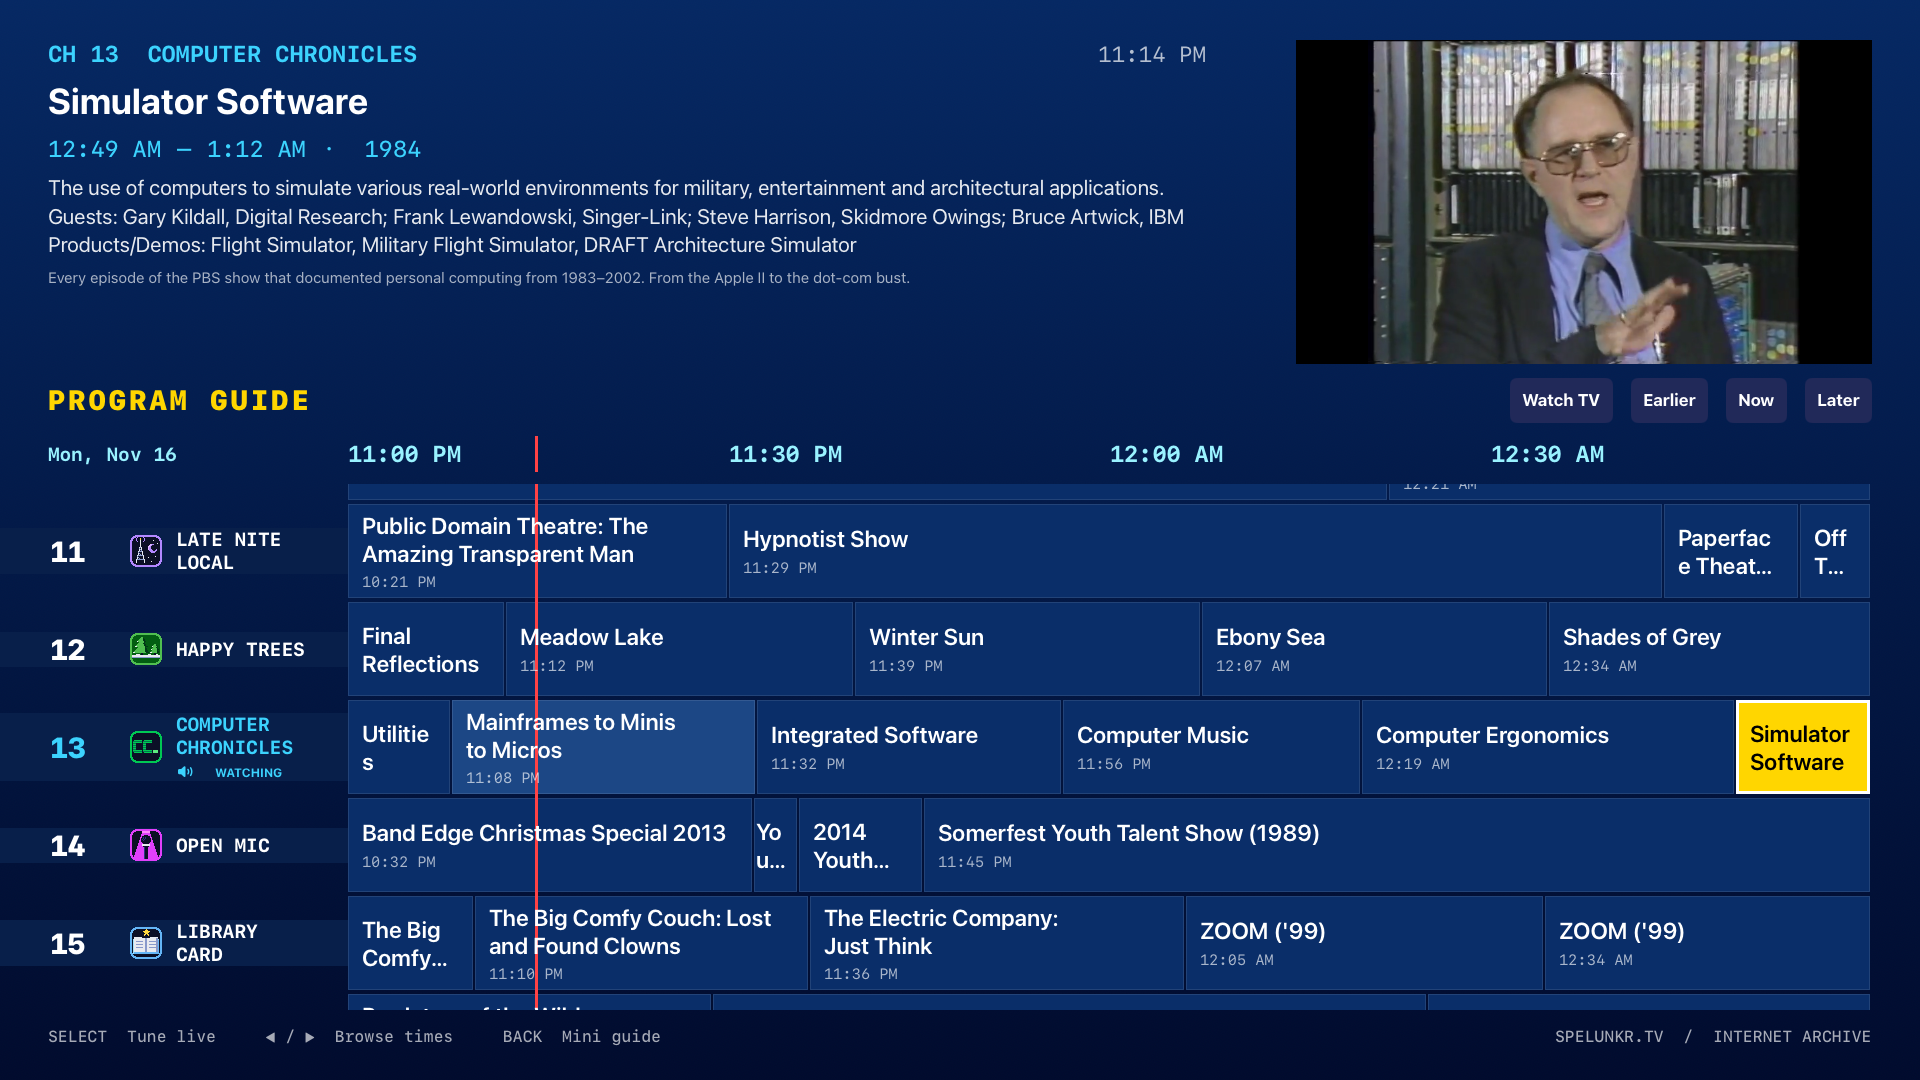
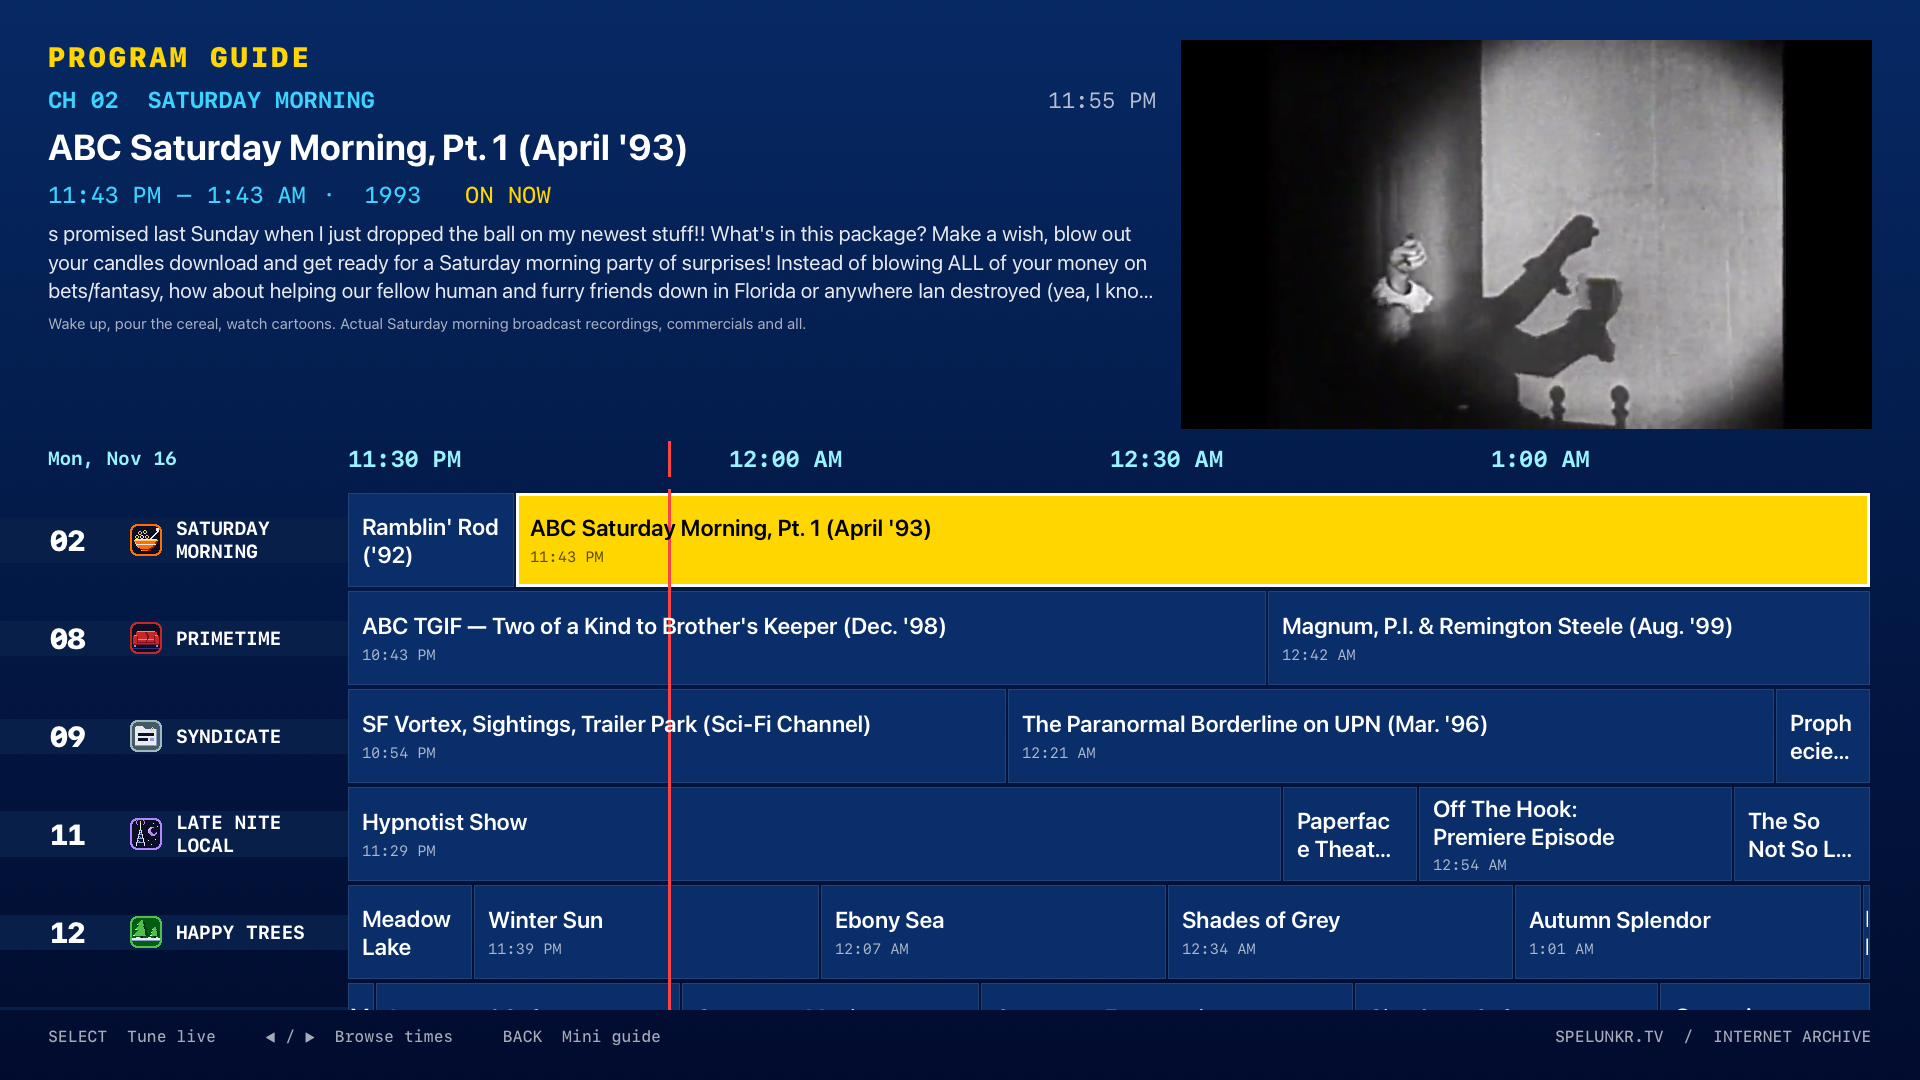
Reduce circular scrolling and enlarge guide preview in 0.1.3

diff --git a/App/FullGuideView.swift b/App/FullGuideView.swift
@@ -2,8 +2,11 @@ import SpelunkrCore
 import SwiftUI
 
 private enum GuideFocus: Hashable {
-    case watch, now, earlier, later
     case program(String, String)
+}
+
+enum FullGuideLayout {
+    static let previewFraction: CGFloat = 0.36
 }
 
 struct FullGuideView: View {
@@ -21,22 +24,14 @@ struct FullGuideView: View {
         GeometryReader { geometry in
             let gridWidth = geometry.size.width - 96 - channelWidth
             VStack(alignment: .leading, spacing: 12) {
-                details
-                    .frame(width: geometry.size.width * 0.64 - 70,
-                           height: geometry.size.height * 0.30, alignment: .topLeading)
-                HStack(spacing: 18) {
+                VStack(alignment: .leading, spacing: 12) {
                     Text("PROGRAM GUIDE")
                         .font(.system(size: 28, weight: .black, design: .monospaced)).tracking(3)
                         .foregroundStyle(.yellow)
-                    Spacer()
-                    Button("Watch TV") { model.closeGuides() }.focused($focused, equals: .watch)
-                        .accessibilityIdentifier("watchTV")
-                    Button("Earlier") { page(by: -7200) }.focused($focused, equals: .earlier)
-                    Button("Now") { Task { await model.loadSchedule() } }.focused($focused, equals: .now)
-                    Button("Later") { page(by: 7200) }.focused($focused, equals: .later)
+                    details
                 }
-                .buttonStyle(SidebarButtonStyle(compact: true))
-                .frame(height: 48)
+                .frame(width: geometry.size.width * (1 - FullGuideLayout.previewFraction) - 120,
+                       height: geometry.size.height * FullGuideLayout.previewFraction, alignment: .topLeading)
 
                 HStack(spacing: 0) {
                     Text(model.scheduleStart, format: .dateTime.weekday(.abbreviated).month(.abbreviated).day())
@@ -235,7 +230,7 @@ struct FullGuideView: View {
         let channel = force ? model.channel ?? model.channels.first : selection?.0 ?? model.channel ?? model.channels.first
         let now = Date()
         if let channel, let program = model.schedule[channel.id]?.first(where: { $0.start <= now && $0.end > now }) ?? model.schedule[channel.id]?.first { focused = .program(channel.id, program.key) }
-        else { focused = .watch }
+        else { focused = nil }
     }
 
     private func isPlaying(channel: Channel, program: Program) -> Bool {
@@ -269,7 +264,6 @@ struct FullGuideView: View {
 
     private func moveVertical(_ step: Int) {
         guard let selected = selection, let row = model.channels.firstIndex(where: { $0.id == selected.0.id }) else { return }
-        if row == 0 && step < 0 { focused = .now; return }
         let nextRow = max(0, min(model.channels.count - 1, row + step))
         let channel = model.channels[nextRow]
         let now = Date()

diff --git a/UITests/ViewingRoomTests.swift b/UITests/ViewingRoomTests.swift
@@ -100,29 +100,35 @@ final class ViewingRoomTests: XCTestCase {
         let cell = app.buttons.matching(NSPredicate(format: "identifier BEGINSWITH %@", "schedule-")).firstMatch
         XCTAssertTrue(cell.waitForExistence(timeout: 45))
         let nativePicture = app.otherElements["videoSurface"]
-        XCTAssertEqual(nativePicture.frame.height, app.frame.height * 0.30, accuracy: 2)
+        XCTAssertEqual(nativePicture.frame.height, app.frame.height * 0.36, accuracy: 2)
         XCTAssertGreaterThan(nativePicture.frame.minX, app.frame.width * 0.60)
+        XCTAssertFalse(app.buttons["watchTV"].exists)
+        for title in ["Watch TV", "Earlier", "Now", "Later"] { XCTAssertFalse(app.buttons[title].exists) }
         // A single arrow press moves exactly one channel row.
-        let now = app.buttons["Now"]
+        let selectedChannel = app.staticTexts["guideSelectedChannel"]
         for _ in 0..<45 {
-            if now.hasFocus { break }
+            if selectedChannel.label.contains("CH 02") { break }
             XCUIRemote.shared.press(.up)
         }
-        XCTAssertTrue(now.hasFocus)
-        XCUIRemote.shared.press(.down)
-        XCTAssertTrue(app.staticTexts["guideSelectedChannel"].label.contains("CH 02"))
+        XCTAssertTrue(selectedChannel.label.contains("CH 02"))
+        XCUIRemote.shared.press(.up)
+        XCTAssertTrue(selectedChannel.label.contains("CH 02"), "Up at the first channel should stay in the grid")
         XCUIRemote.shared.press(.down, forDuration: 0.30)
-        XCTAssertTrue(app.staticTexts["guideSelectedChannel"].label.contains("CH 08"))
+        XCTAssertTrue(selectedChannel.label.contains("CH 08"))
         XCUIRemote.shared.press(.up)
-        XCUIRemote.shared.press(.up)
-        XCTAssertTrue(now.hasFocus)
+        XCTAssertTrue(selectedChannel.label.contains("CH 02"))
         let time = app.staticTexts["guideTime-0"]
         let initialTime = time.label
-        XCUIRemote.shared.press(.right) // Later
-        XCUIRemote.shared.press(.select)
+        for _ in 0..<30 {
+            if time.label != initialTime { break }
+            XCUIRemote.shared.press(.right)
+        }
         expectation(for: NSPredicate(format: "label != %@", initialTime), evaluatedWith: time)
         waitForExpectations(timeout: 10)
-        XCUIRemote.shared.press(.left) // Return to the preceding two-hour page.
+        for _ in 0..<30 {
+            if time.label == initialTime { break }
+            XCUIRemote.shared.press(.left)
+        }
         expectation(for: NSPredicate(format: "label == %@", initialTime), evaluatedWith: time)
         waitForExpectations(timeout: 10)
         XCTAssertTrue(full.exists)

diff --git a/Tests/SpelunkrCoreTests/ClickWheelTests.swift b/Tests/SpelunkrCoreTests/ClickWheelTests.swift
@@ -9,14 +9,14 @@ final class ClickWheelTests: XCTestCase {
             let angle = -Double(index) * 2 * .pi / 100
             clockwise += wheel.update(x: cos(angle), y: sin(angle), timestamp: Double(index) * 0.02)
         }
-        XCTAssertTrue((5...6).contains(clockwise))
+        XCTAssertTrue((3...4).contains(clockwise))
         wheel.reset()
         var counterclockwise = 0
         for index in 0...100 {
             let angle = Double(index) * 2 * .pi / 100
             counterclockwise += wheel.update(x: cos(angle), y: sin(angle), timestamp: Double(index) * 0.02)
         }
-        XCTAssertTrue((-6 ... -5).contains(counterclockwise))
+        XCTAssertTrue((-4 ... -3).contains(counterclockwise))
     }
 
     func testAccelerationIsGentleAndFastInputCannotBurst() {
@@ -31,11 +31,11 @@ final class ClickWheelTests: XCTestCase {
             return steps
         }
         let slow = scroll(duration: 12), quick = scroll(duration: 3), veryFast = scroll(duration: 1)
-        XCTAssertTrue((17...18).contains(slow.count))
+        XCTAssertTrue((11...12).contains(slow.count))
         XCTAssertGreaterThanOrEqual(quick.count, slow.count)
-        XCTAssertLessThanOrEqual(quick.count, slow.count + 4)
+        XCTAssertLessThanOrEqual(quick.count, slow.count + 2)
         XCTAssertTrue(veryFast.allSatisfy { abs($0.1) == 1 })
-        for (previous, next) in zip(veryFast, veryFast.dropFirst()) { XCTAssertGreaterThanOrEqual(next.0 - previous.0, 0.109) }
+        for (previous, next) in zip(veryFast, veryFast.dropFirst()) { XCTAssertGreaterThanOrEqual(next.0 - previous.0, 0.159) }
     }
 
     func testStraightSwipesAndFingerLiftDoNotSpin() {

diff --git a/Sources/SpelunkrCore/ClickWheel.swift b/Sources/SpelunkrCore/ClickWheel.swift
@@ -22,10 +22,10 @@ public struct ClickWheel: Sendable {
         // A fresh touch on another edge is not a circular motion.
         guard abs(delta) < 0.9 else { accumulated = 0; return 0 }
         speed = speed * 0.75 + abs(delta) / elapsed * 0.25
-        let acceleration = min(1, max(0, (speed - 2) / 10))
-        accumulated -= delta * (1 + 0.5 * acceleration * acceleration)
-        let threshold = Double.pi / 3 // Six rows per slow turn; gentle gain is capped at 1.5x.
-        guard timestamp - lastStepAt >= 0.11 else {
+        let acceleration = min(1, max(0, (speed - 4) / 12))
+        accumulated -= delta * (1 + 0.25 * acceleration * acceleration)
+        let threshold = Double.pi / 2 // Four rows per slow turn; gentle gain is capped at 1.25x.
+        guard timestamp - lastStepAt >= 0.16 else {
             accumulated = max(-threshold, min(threshold, accumulated))
             return 0
         }

diff --git a/App/ViewingRoom.swift b/App/ViewingRoom.swift
@@ -14,8 +14,8 @@ struct ViewingRoom: View {
         GeometryReader { geometry in
             let size = geometry.size
             let sidebarWidth = min(size.width * 0.45, max(440, size.width * 0.25))
-            let pictureWidth = model.showsSchedule ? size.width * 0.30 : model.showsSidebar ? min(size.width, size.height * model.videoAspectRatio) : size.width
-            let pictureHeight = model.showsSchedule ? size.height * 0.30 : size.height
+            let pictureWidth = model.showsSchedule ? size.width * FullGuideLayout.previewFraction : model.showsSidebar ? min(size.width, size.height * model.videoAspectRatio) : size.width
+            let pictureHeight = model.showsSchedule ? size.height * FullGuideLayout.previewFraction : size.height
             ZStack(alignment: .topLeading) {
                 Color.black
                 if model.showsSchedule {

diff --git a/scripts/generate-project.py b/scripts/generate-project.py
@@ -64,7 +64,7 @@ common = {
 }
 app_settings = {
     **common, 'PRODUCT_BUNDLE_IDENTIFIER': 'tv.spelunkr.community', 'PRODUCT_NAME': '$(TARGET_NAME)',
-    'MARKETING_VERSION': '0.1.2', 'CURRENT_PROJECT_VERSION': '3',
+    'MARKETING_VERSION': '0.1.3', 'CURRENT_PROJECT_VERSION': '4',
     'INFOPLIST_KEY_CFBundleDisplayName': 'Spelunkr',
     'INFOPLIST_FILE': 'App/Info.plist',
     'INFOPLIST_KEY_UILaunchScreen_Generation': 'YES', 'INFOPLIST_KEY_UIUserInterfaceStyle': 'Dark',

diff --git a/README.md b/README.md
@@ -10,11 +10,11 @@ A native, independent tvOS client for [spelunkr.tv](https://spelunkr.tv). It tun
 
 With the mini guide open, the **video fills the TV's height and sits against the left edge**, preserving its original proportions. A 4:3 tape on a 1920 × 1080 display gets a 1440 × 1080 picture and a 480-pixel sidebar. If a tape is wider, the mini guide covers the right edge of the picture instead of shrinking it to make room.
 
-Press **Right again** for a classic blue full-screen program guide: a two-hour schedule, channel numbers and pixel icons, program details, earlier/later pages, and the currently playing channel in the top-right corner. A red line marks the current time above the cell backgrounds and behind the text; the playing program has a lighter blue background. Browsing does not retune. Select a program to tune that channel live. Left/Right navigate the schedule, including returning from a later time page. Back returns to the mini guide; Back again closes it and centers the video. There is no Full Screen button.
+Press **Right again** for a classic blue full-screen program guide: a two-hour schedule, channel numbers and pixel icons, program details, earlier/later pages, and the currently playing channel in the top-right corner. Version 0.1.3 enlarges that preview and removes the Watch TV, Earlier, Now, and Later buttons. A red line marks the current time above the cell backgrounds and behind the text; the playing program has a lighter blue background. Browsing does not retune. Select a program to tune that channel live. Left/Right navigate the schedule, including returning from a later time page. Back returns to the mini guide; Back again closes it and centers the video. There is no Full Screen button.
 
 All viewing modes use the same AVPlayer and preserve playback while the layout changes. The original picture is never stretched. Up, Down, or Select while watching opens **native tvOS playback controls**, including **Rejoin Live**, **Last Channel**, and guide actions. Seeking and fast-forward cannot play beyond the current live position; rewinding remains available.
 
-Both guides open on the channel currently playing. Up/Down in the current-time page selects the program airing now on the destination channel. Channel numbers, including three-digit numbers, stay on one line. Guide scrolling uses a quick slide animation, with a slower circular-scroll curve; Reduce Motion disables the animation. The guides show available tape synopses with smaller channel descriptions underneath. Summaries use cached metadata; stopping on an uncached program for a second can fetch its metadata from Internet Archive. Fast scrolling cancels that delay, and no extra description requests go to Spelunkr's server.
+Both guides open on the channel currently playing. Up/Down in the current-time page selects the program airing now on the destination channel. Channel numbers, including three-digit numbers, stay on one line. Guide scrolling uses a quick slide animation; Reduce Motion disables the animation. Version 0.1.3 further reduces circular scrolling to four rows per slow turn, with softer acceleration and at least 160 ms between row movements. The guides show available tape synopses with smaller channel descriptions underneath. Summaries use cached metadata; stopping on an uncached program for a second can fetch its metadata from Internet Archive. Fast scrolling cancels that delay, and no extra description requests go to Spelunkr's server.
 
 ## How to install
 

diff --git a/TODO.md b/TODO.md
@@ -1,6 +1,6 @@
 # Apple TV app to-do
 
-This checklist tracks requests for version 0.1.2. Items are checked only when implemented and verified, or published where requested.
+This checklist tracks app requests and releases. Items are checked only when implemented and verified, or published where requested.
 
 ## Published
 
@@ -26,6 +26,13 @@ This checklist tracks requests for version 0.1.2. Items are checked only when im
 - [x] When scrolling vertically on the full guide's current-time page, select the program airing now on each destination channel instead of its leftmost program.
 - [x] Keep three-digit channel numbers on one line and move their column slightly left in both guides.
 - [x] Run the final optimized checks (**26 core tests and six simulator UI tests passed**), build and verify the arm64 IPA, and publish source plus release assets. [Version 0.1.2](https://github.com/snugwarms/spelunkr.tv-tvOS/releases/tag/v0.1.2) is live. Local IPA: `build/releases/0.1.2/Spelunkr-tvOS-unsigned.ipa`.
+
+## Version 0.1.3 hotfix
+
+- [x] Reduce circular touchpad scrolling again: four rows per slow turn instead of six, gentler acceleration capped at 1.25×, and at least 160 ms between row movements. Preserve slide animations and arrow-button timing. Optimized touch-trace checks passed; physical remote feel needs confirmation.
+- [x] Remove Watch TV, Earlier, Now, and Later buttons from the full guide and enlarge the top-right preview by 20% in each dimension. Keep Left/Right time browsing and Back navigation working. Simulator navigation checks and screenshot review passed.
+- [x] Verify optimized scrolling tests and guide navigation (**26 core tests and two Release simulator checks passed**) and build and validate the unsigned arm64 Apple TV IPA, version 0.1.3 build 4.
+- [ ] Publish source plus hotfix assets. Local IPA: `build/releases/0.1.3/Spelunkr-tvOS-unsigned.ipa`.
 
 ## Preserve existing behavior
 
